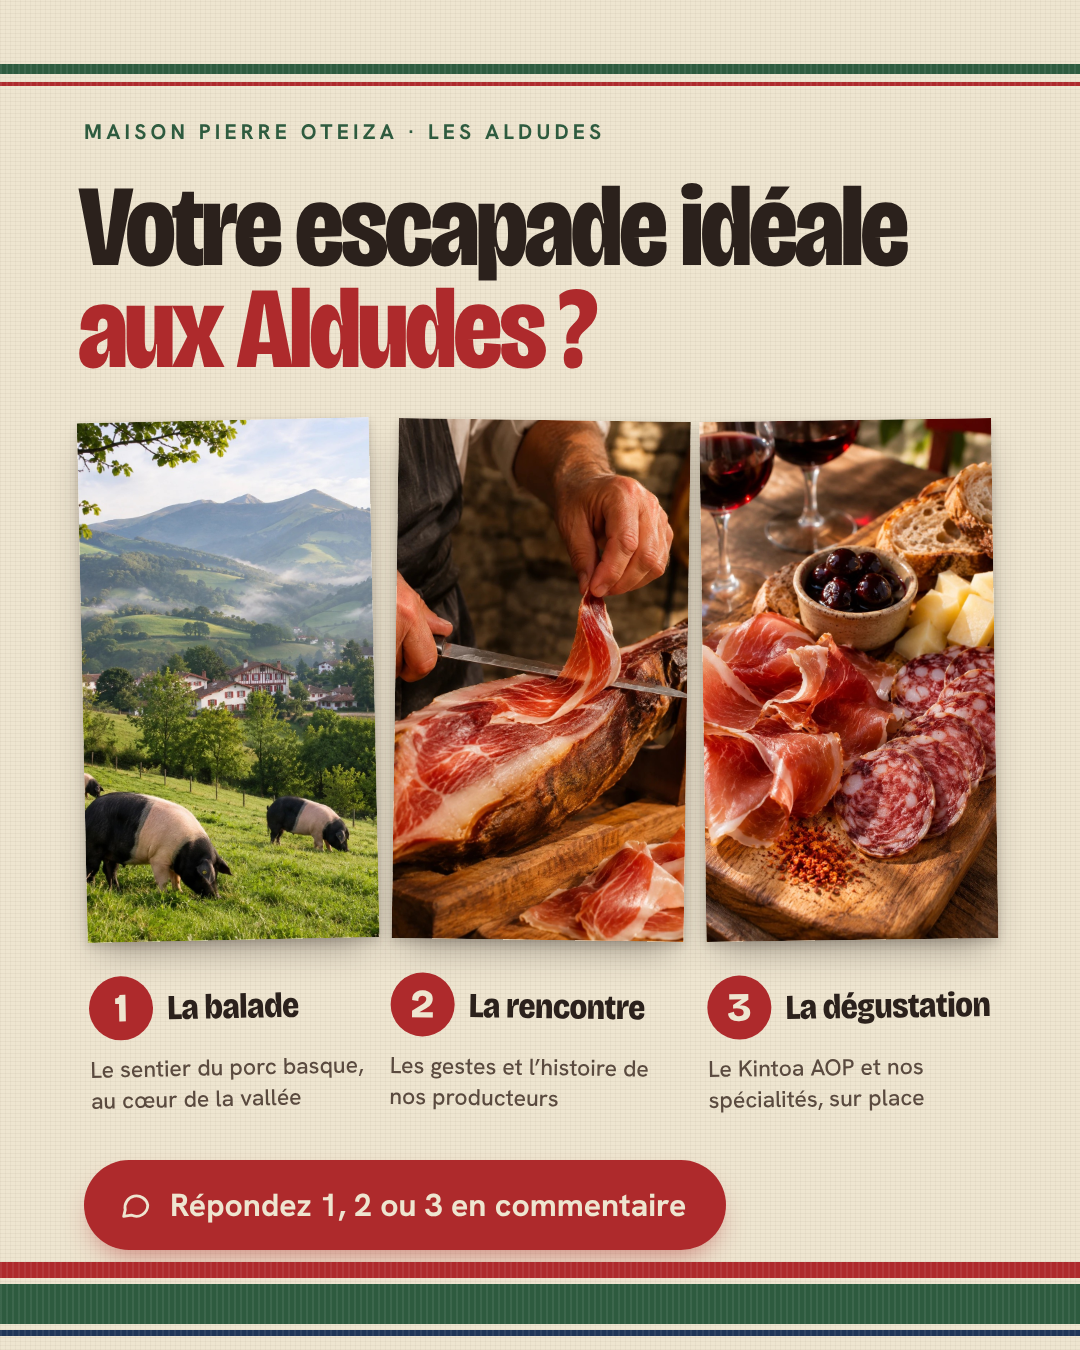
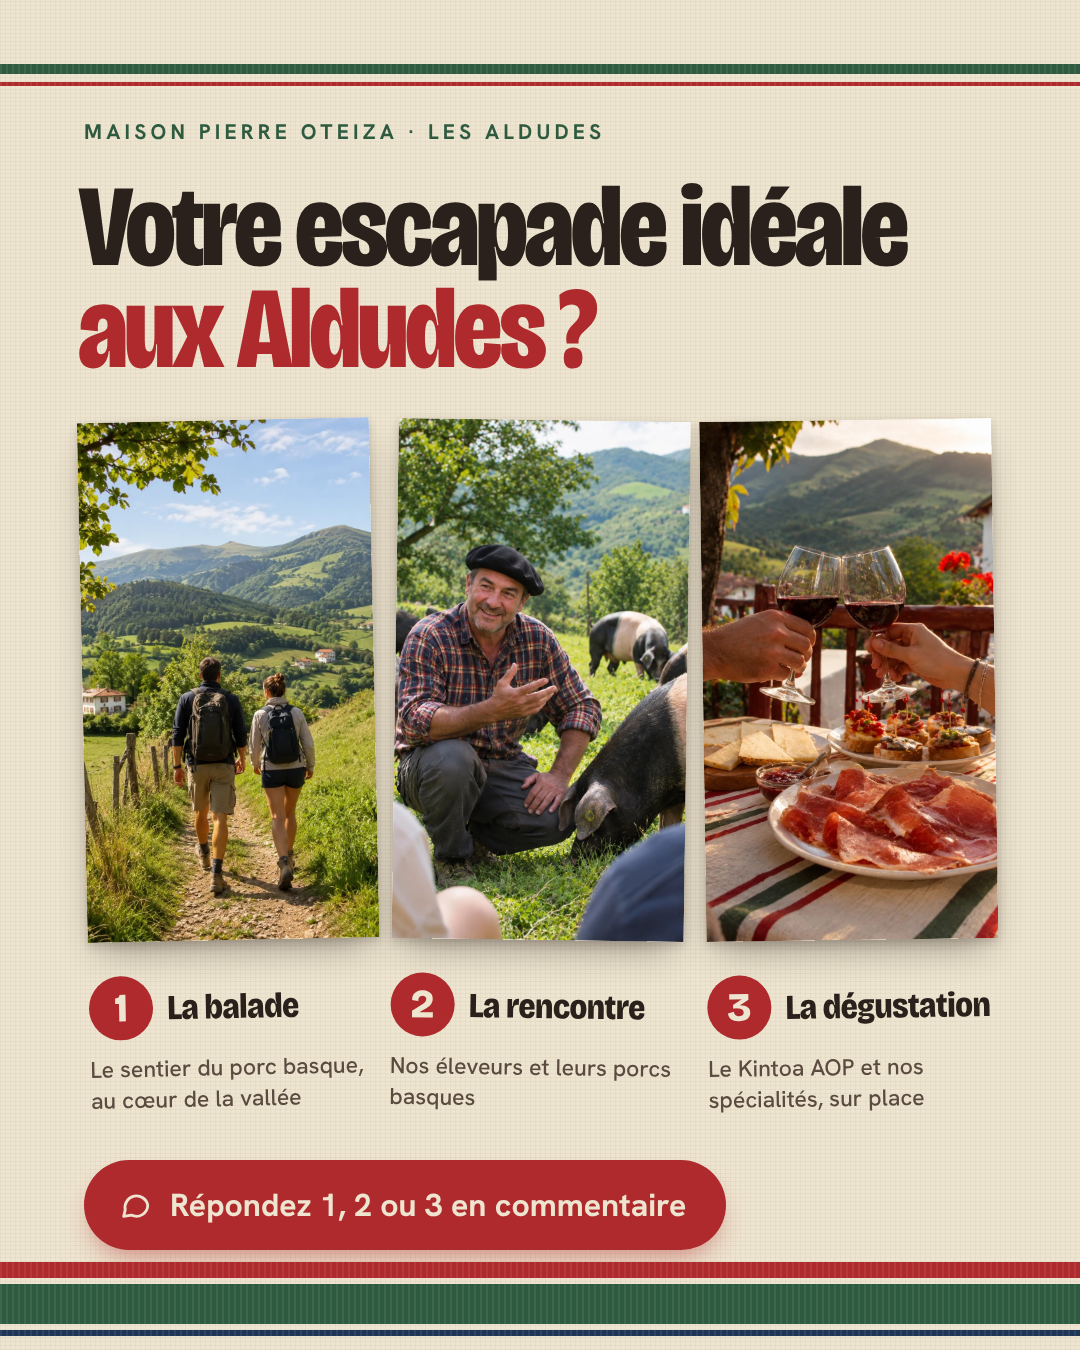
Nouvelles photos pour le post Facebook escapade (balade, rencontre, dégustation)
Claude-Session: https://claude.ai/code/session_01M4KwiYuPc6C6YeqYRujdKa

Changed region(s): [[0.0611, 0.3111, 0.9472, 0.7156], [0.3667, 0.7778, 0.6111, 0.84]]

diff --git a/oteiza-prototype/facebook/post.html b/oteiza-prototype/facebook/post.html
@@ -29,17 +29,17 @@ body{background:#777}
   <h1 class="titre">Votre escapade idéale <em>aux Aldudes&nbsp;?</em></h1>
 
   <div class="choix" style="left:84px;transform:rotate(-1.2deg)">
-    <div class="photo"><img src="img/aldudes.jpg" alt="Vallée des Aldudes et porcs basques en plein air"></div>
+    <div class="photo"><img src="img/balade.jpg" alt="Un couple de randonneurs sur un sentier de la vallée"></div>
     <div class="tete"><div class="n">1</div><div class="nom">La balade</div></div>
     <p class="desc">Le sentier du porc basque, au cœur de la vallée</p>
   </div>
   <div class="choix" style="left:394px;transform:rotate(.8deg)">
-    <div class="photo"><img src="img/tranches.jpg" alt="Un artisan tranche un jambon à la main"></div>
+    <div class="photo"><img src="img/rencontre.jpg" alt="Un éleveur au milieu de ses porcs basques explique son métier"></div>
     <div class="tete"><div class="n">2</div><div class="nom">La rencontre</div></div>
-    <p class="desc">Les gestes et l’histoire de nos producteurs</p>
+    <p class="desc">Nos éleveurs et leurs porcs basques</p>
   </div>
   <div class="choix" style="left:704px;transform:rotate(-.8deg)">
-    <div class="photo"><img src="img/presentation.jpg" alt="Planche de charcuterie basque et verres de vin"></div>
+    <div class="photo"><img src="img/degustation.jpg" alt="Deux amis trinquent en terrasse devant du jambon et des pintxos"></div>
     <div class="tete"><div class="n">3</div><div class="nom">La dégustation</div></div>
     <p class="desc">Le Kintoa AOP et nos spécialités, sur place</p>
   </div>

diff --git a/oteiza-prototype/facebook/fiche-prototype-facebook.md b/oteiza-prototype/facebook/fiche-prototype-facebook.md
@@ -12,9 +12,9 @@
 ## Contenu
 | Option | Photo | Texte |
 |---|---|---|
-| ① La balade | Vallée des Aldudes, porcs basques en plein air | Le sentier du porc basque, au cœur de la vallée |
-| ② La rencontre | Artisan qui tranche un jambon à la main | Les gestes et l'histoire de nos producteurs |
-| ③ La dégustation | Planche basque et verres de vin | Le Kintoa AOP et nos spécialités, sur place |
+| ① La balade | Couple de randonneurs sur un sentier de la vallée | Le sentier du porc basque, au cœur de la vallée |
+| ② La rencontre | Éleveur en béret au milieu de ses porcs basques, face à des visiteurs | Nos éleveurs et leurs porcs basques |
+| ③ La dégustation | Amis qui trinquent en terrasse, jambon et pintxos sur nappe basque | Le Kintoa AOP et nos spécialités, sur place |
 
 ## Règles de composition appliquées
 | Règle | Application |
@@ -33,4 +33,4 @@
 > Dites-nous tout en commentaire 👇 On a hâte de vous accueillir !
 
 ## Photos
-Les 3 photos sont **générées par IA avec ChatGPT** (les mêmes que pour le carrousel Instagram). Ce ne sont pas de vraies photos de la Maison Pierre Oteiza.
+Les 3 photos sont **générées par IA avec ChatGPT**, différentes de celles du carrousel Instagram pour éviter les répétitions. Ce ne sont pas de vraies photos de la Maison Pierre Oteiza.
